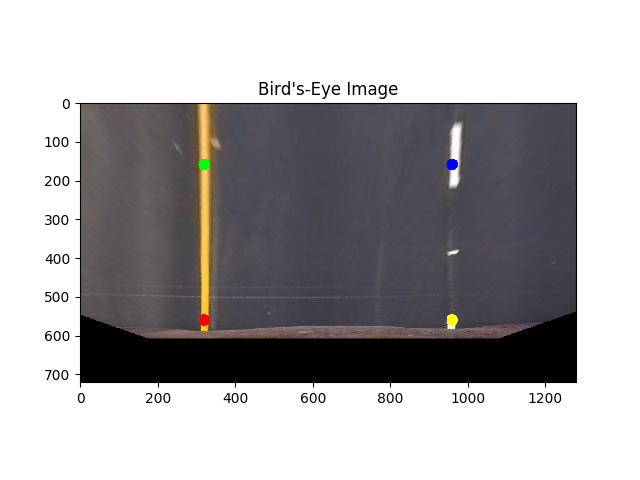
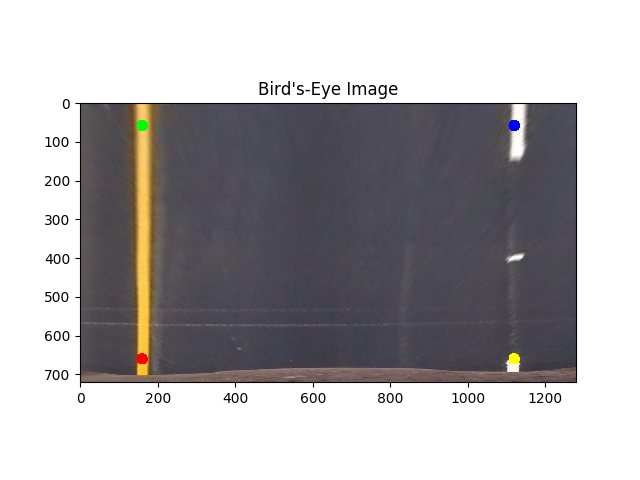
Just writing left

diff --git a/p4code.py b/p4code.py
@@ -161,8 +161,8 @@ if __name__ == '__main__':
 #########################################################################
 
     if processimages:
-        imagenames = glob.glob('./test_images/*.jpg')
-        # imagenames = ['./test_images/test3.jpg']
+        # imagenames = glob.glob('./test_images/*.jpg')
+        imagenames = ['./test_images/test3.jpg']
 
         for imagename in imagenames:
 

diff --git a/perspective.py b/perspective.py
@@ -3,7 +3,7 @@ import numpy as np
 import matplotlib.image as mpimg
 import matplotlib.pyplot as plt
 
-saveplots = False
+saveplots = True
 
 def getPerspectiveTransforms():
 	imgrect = mpimg.imread("./test_images/straight_lines1.jpg")

diff --git a/writeup.md b/writeup.md
@@ -105,24 +105,25 @@ warpedrectvertices = np.array([
 ```
 
 ```python
-offset = 320
+offsetx = 160
+offsety = 60
 imx = imgrect.shape[1]
 imy = imgrect.shape[0]
 rectvertices = np.array([
-	    [offset, imy],
-	    [offset, 0],
-	    [imx-offset, 0],
-	    [imx-offset, imy]], dtype = np.float32)
+	    [offsetx, imy-offsety],
+	    [offsetx, offsety],
+	    [imx-offsetx, offsety],
+	    [imx-offsetx, imy-offsety]], dtype = np.float32)
 ```
 
 This resulted in the following source and destination points:
 
 | Source    | Destination |
 | --------- | ----------- |
-| 305, 650  | 320, 720    |
-| 525, 500  | 320, 0      |
-| 760, 500  | 960, 0      |
-| 1000, 650 | 960, 720    |
+| 305, 650  | 160, 660    |
+| 525, 500  | 160, 60     |
+| 760, 500  | 1120, 60    |
+| 1000, 650 | 1120, 660   |
 
 I verified that my perspective transform was working as expected by drawing the `src` and `dst` points onto a test image and its warped counterpart to verify that the lines appear parallel in the warped image.
 
